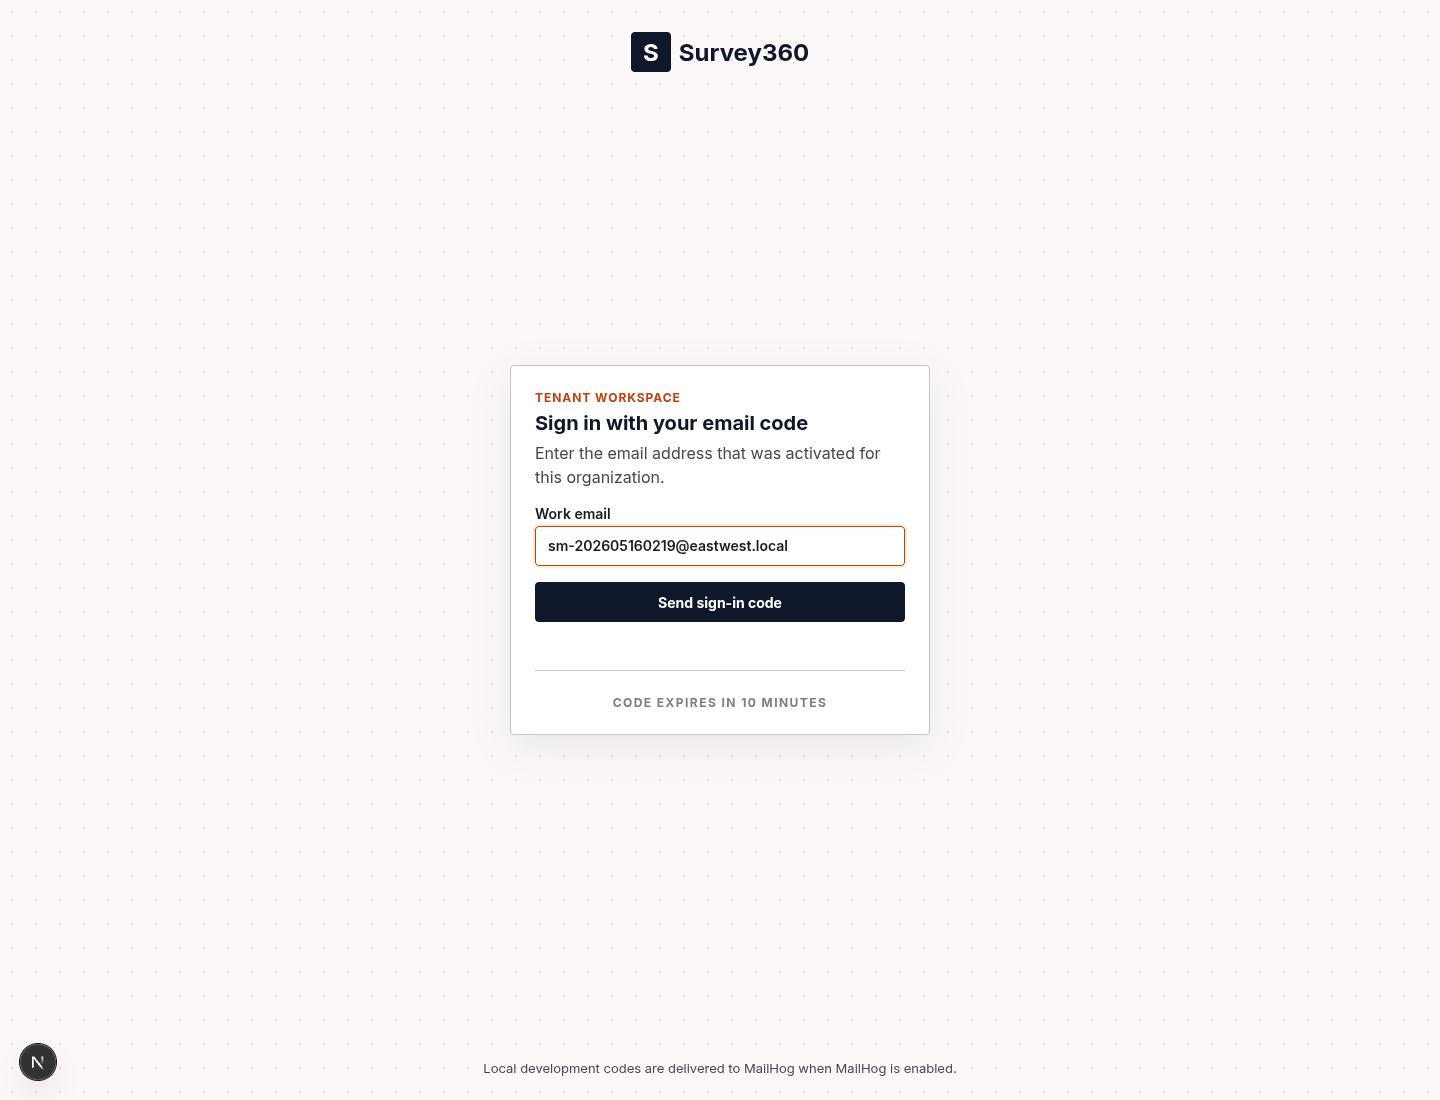
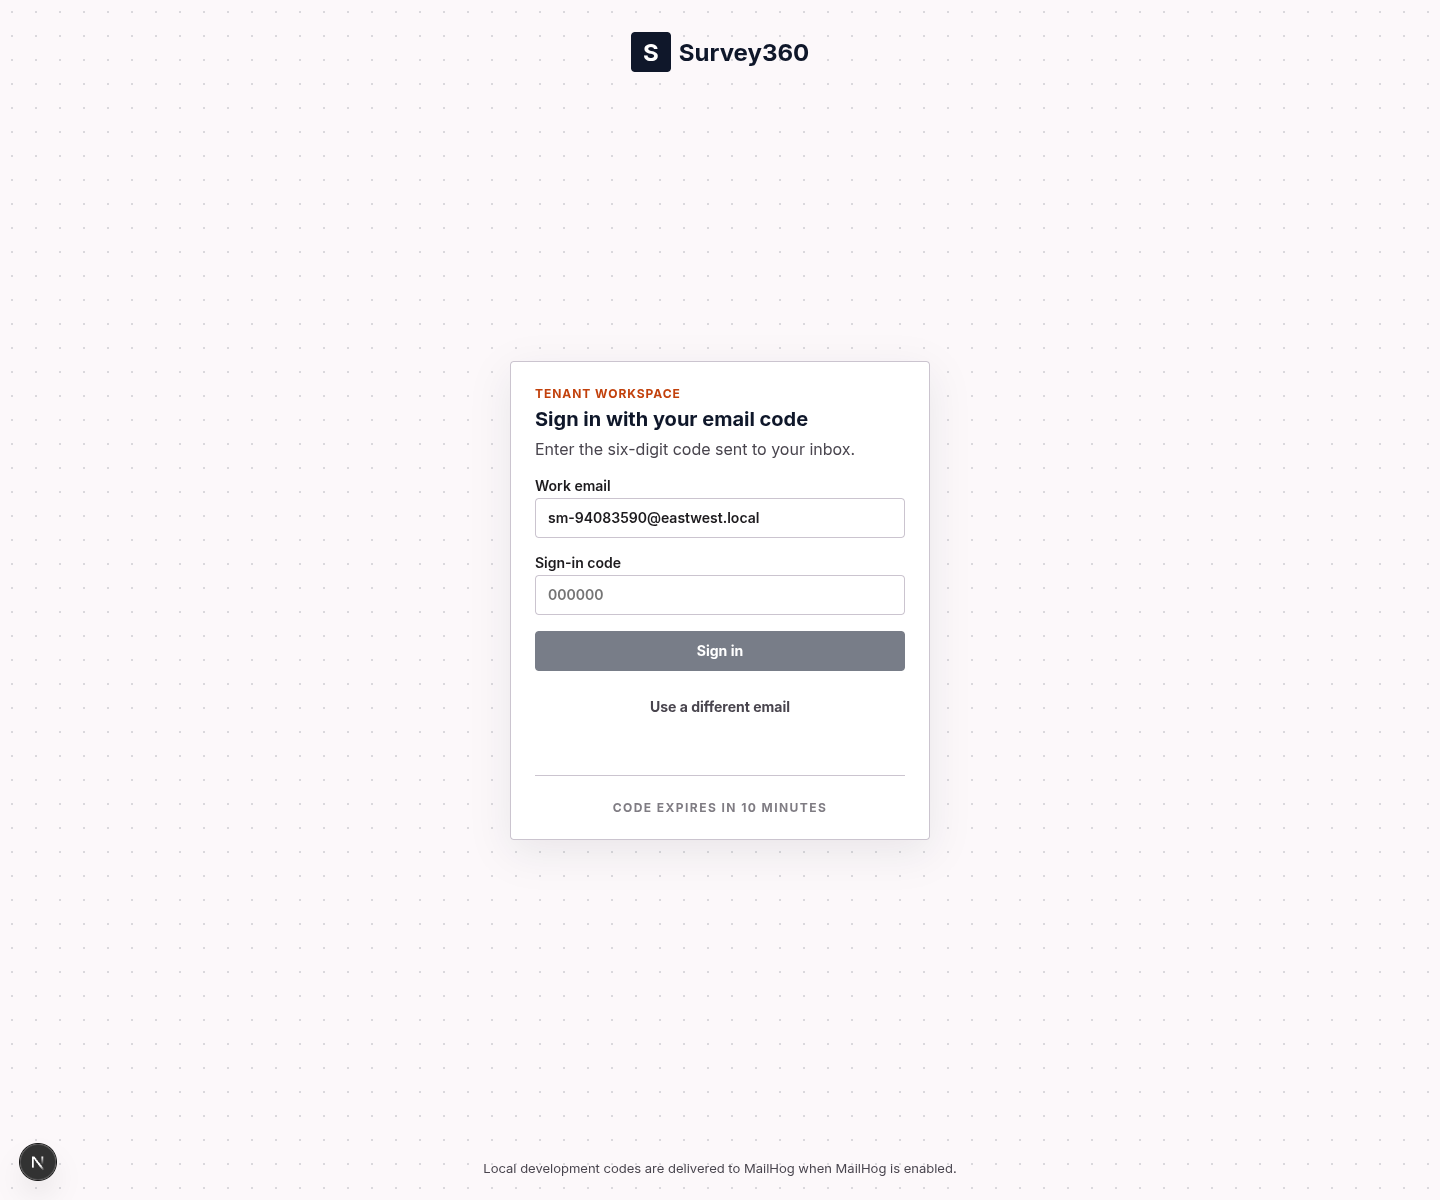
docs: refresh walkthrough screenshots and index
Updated all 25 SM-only SSF walkthrough screenshots to match the latest
UI after the cycle detail page redesign and governed raw response view.

Walkthrough index now covers the full presentation path through
completion dashboard, individual reports, and governed raw responses.

diff --git a/docs/walkthroughs/index.md b/docs/walkthroughs/index.md
@@ -8,7 +8,22 @@ description: A complete Senior Management-only walkthrough for running a Singapo
 
 This walkthrough follows a complete cold-start Survey360 lifecycle. A platform administrator provisions East West, activates the workspace, and then Senior Management runs the full tenant process without switching to an HR account. The review uses Singapore Skills Framework Critical Core Skills, adds one cycle-level custom competency, generates and edits AI questionnaire wording, assigns rater links, collects three peer responses, generates the report, and opens governed raw-response review.
 
-The screenshots come from a fresh local run with one organization, one Senior Management user, five imported employees, one assessed leader, three peer raters, and one completed report. They show the product surface a customer would use rather than backend setup details.
+The screenshots were refreshed from a local cold-start run on 16 May 2026. The run starts with zero organizations, provisions one East West tenant, signs in one Senior Management user, imports five employees, creates one assessed leader and three peer raters, completes three respondent links from fresh page loads, generates one threshold-safe report, and opens governed raw-response review.
+
+## Verified run coverage
+
+| Area | What the run proves | Evidence |
+| --- | --- | --- |
+| Platform control plane | Password-protected platform admin can create a tenant and inspect lifecycle metadata without tenant roster or response data. | Screenshots 1-4 |
+| Tenant activation and SM sign-in | Activation uses a single-use email link, then the tenant workspace uses a one-time email code. | Screenshots 5-7 |
+| Employee roster | Senior Management previews the embedded CSV, commits five valid employees, and sees the reusable directory. | Screenshots 8-9 |
+| SSF cycle setup | The cycle uses Critical Core Skills (SSF), selects `Decision Making` and `Developing People`, and adds `Digital Transformation Leadership` as a cycle-level custom competency. | Screenshots 10-11 |
+| AI proposal governance | AI only proposes after a human request; Senior Management edits a question, asks for an alternative, applies it, and accepts the proposal into a draft version. | Screenshots 12-14 |
+| Approval and policy | Senior Management approves Version 1, activates the cycle, enables anonymous raw-response review before links are minted, and the policy locks after links exist. | Screenshots 15-17 |
+| Rater delivery | Three peer assignments are created for Maria Santos; MailHog receives three feedback emails; respondent URLs use `/respondent?tenantId=...#token`, keeping raw tokens out of the query string. | Screenshot 16 |
+| Respondent lifecycle | Each rater opens a fresh respondent page, acknowledges the visibility policy, submits ratings, and a reused link fails. | Screenshots 18-20 |
+| Completion and reporting | Completion moves from 0% to 100%; three peer responses satisfy the anonymity threshold of 3; the report includes response counts, scores, SSF/custom competency coverage, and development suggestions. | Screenshots 21-23 |
+| Governed raw review | Senior Management-only raw review is access-logged, anonymizes rater identity under the selected policy, and shows radar, matrix, group summary, and row-level audit views. | Screenshots 24-26 |
 
 ## 1. Start from the platform control plane
 
@@ -145,6 +160,32 @@ The raw-response page includes a competency radar, exact-score matrix, and rater
 The audit table shows every individual response row with the rater anonymized, the rater type, competency, question, answer, and completion timestamp. This makes raw review inspectable while preserving the cycle's anonymous identity policy.
 
 ![Governed raw response layout](/img/walkthroughs/sm-only-ssf/26-governed-raw-response-layout.png)
+
+## Functionality checklist
+
+Use this matrix to confirm the walkthrough covers the full Senior Management-only lifecycle.
+
+| Functionality | Covered in walkthrough | Notes |
+| --- | --- | --- |
+| Clean reset from zero tenants | Yes | The run begins with an empty Organizations dashboard before provisioning. |
+| Platform provisioning | Yes | Organization name, subdomain, industry, and Senior Management email are captured. |
+| Tenant activation | Yes | The activation email link is claimed before tenant sign-in. |
+| Senior Management OTP sign-in | Yes | No HR account is invited or used. |
+| Employee import preview and commit | Yes | Five CSV rows are previewed, committed, and shown in the directory. |
+| SSF competency selection | Yes | `Decision Making` and `Developing People` are selected from Critical Core Skills. |
+| Cycle-level custom competency | Yes | `Digital Transformation Leadership` is included in setup, respondent questions, report, and raw review. |
+| AI proposal request | Yes | Generation is requested from the cycle workspace and reaches ready-for-review. |
+| Human review/edit/select | Yes | A question is edited, an instructed wording alternative is generated, and the chosen alternative is applied before acceptance. |
+| Questionnaire approval | Yes | Version 1 moves from draft to approved and activates the cycle. |
+| Raw-response policy | Yes | Anonymous individual review is enabled before links are minted, then locks after link creation. |
+| Rater links and email delivery | Yes | Three peer links are minted and delivered through MailHog. |
+| Fragment token shape | Yes | Respondent URLs keep the raw token after `#`, not in query parameters. |
+| Respondent notice and submission | Yes | Respondents acknowledge active raw visibility and submit all rating questions. |
+| Single-use token enforcement | Yes | A used respondent URL shows the invalid-or-already-used message from a fresh load. |
+| Completion dashboard | Yes | Counts move from assigned 3 / invited 3 / completed 0 to completed 3 / 100%. |
+| Threshold-safe report | Yes | Three peer responses satisfy the default threshold of 3 for Maria Santos' individual report. |
+| Report content | Yes | The report shows response count, averages, competency breakdowns, and AI development suggestions. |
+| Raw-response review | Yes | Senior Management can inspect anonymized rows with access logging and governed reviewer context. |
 
 ## Closeout checklist
 
